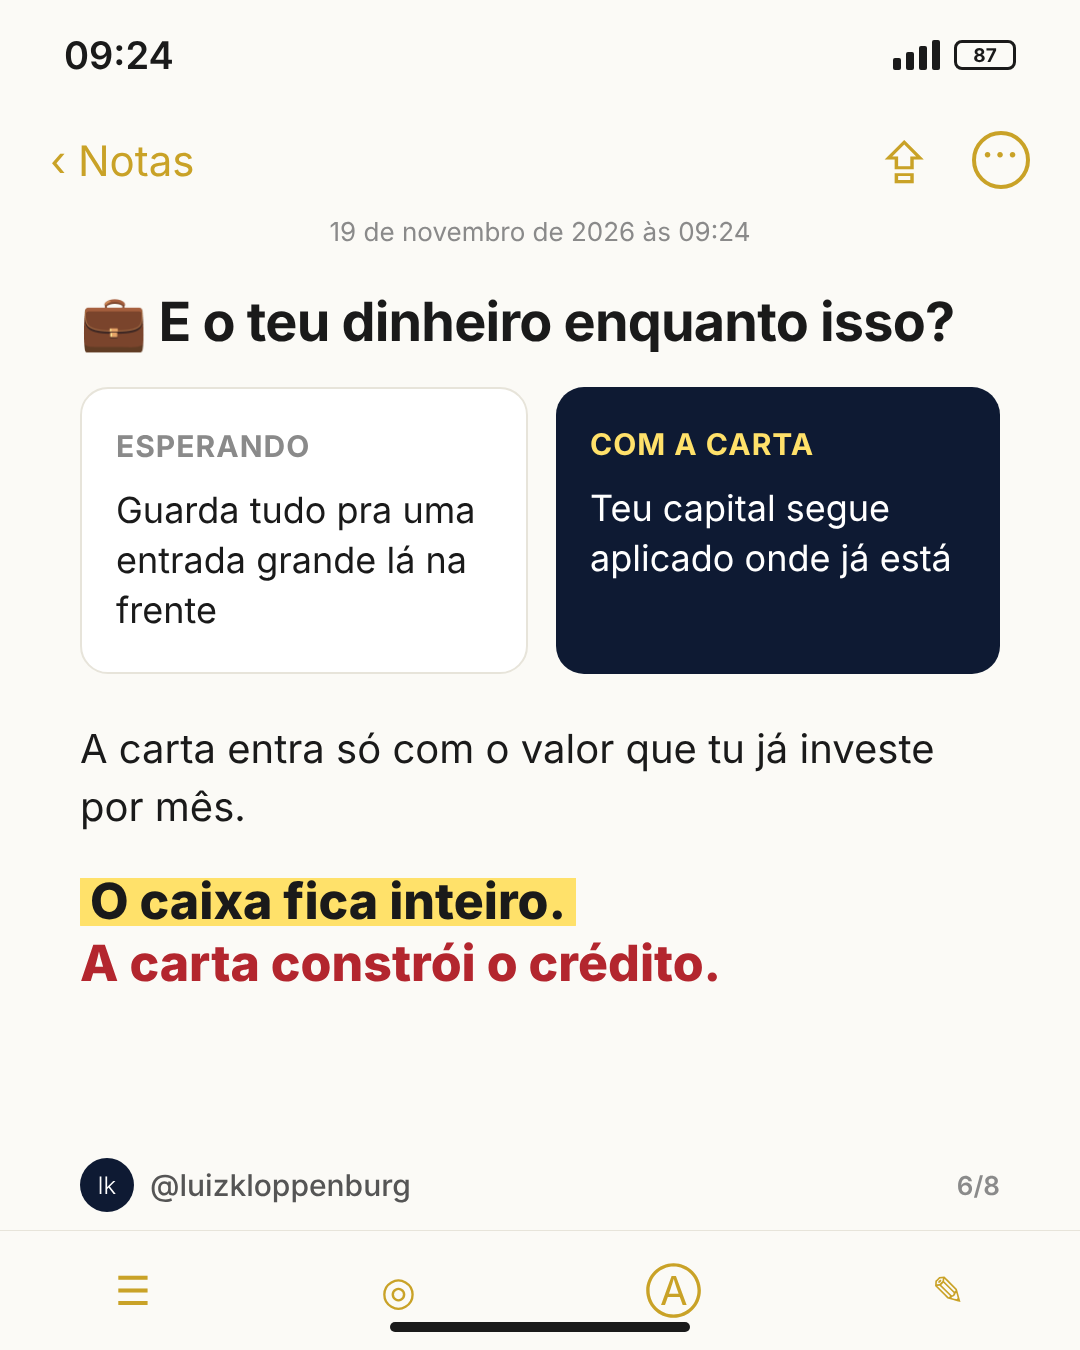
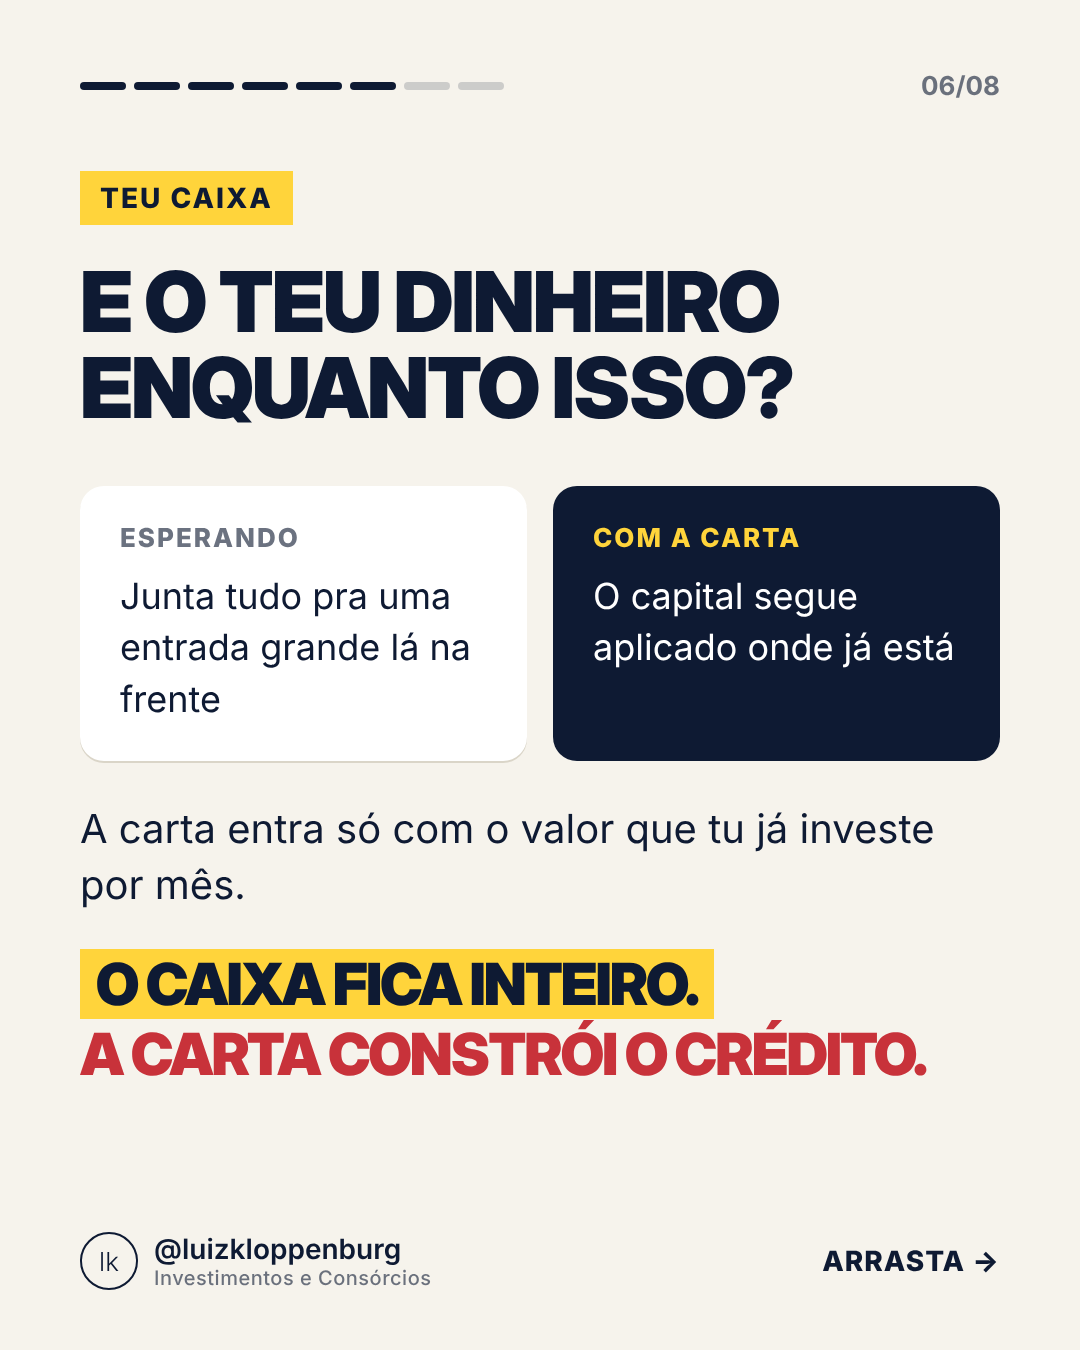
Refaz carrossel sem estilo de nota, no visual azul e amarelo do perfil
Claude-Session: https://claude.ai/code/session_012hLzEUsLBVKUL4S6WEAVH7

diff --git a/carrossel-luiz/carrossel.html b/carrossel-luiz/carrossel.html
@@ -1,178 +1,133 @@
 <!doctype html><html lang="pt-BR"><head><meta charset="utf-8">
-<link href="https://fonts.googleapis.com/css2?family=Caveat:wght@600;700&display=swap" rel="stylesheet">
 <style>
-:root{--navy:#0E1A33;--navy2:#1C2B4A;--yel:#FFE16A;--red:#B3262E;--gold:#C9A227;--paper:#FBFAF6;--ink:#1A1A1A;--mute:#8A8A8A;--line:#E7E4DA}
+:root{--navy:#0E1A33;--navy2:#1C2B4A;--yel:#FFD43B;--red:#C8323A;--cream:#F6F3EC;--ink:#0E1A33;--mute:#6B7280;--line:#DAD5C8}
 *{box-sizing:border-box;margin:0;padding:0}
-body{background:#ddd;font-family:Inter,sans-serif;color:var(--ink)}
-.s{width:1080px;height:1350px;background:var(--paper);position:relative;overflow:hidden;margin:20px auto;display:flex;flex-direction:column}
-.status{height:110px;display:flex;align-items:center;justify-content:space-between;padding:0 64px;font-weight:600;font-size:38px}
-.status .r{display:flex;gap:14px;align-items:center}
-.bars{display:flex;gap:5px;align-items:flex-end}.bars i{width:8px;background:var(--ink);border-radius:2px}
-.bat{width:62px;height:30px;border:3px solid var(--ink);border-radius:8px;font-size:19px;display:flex;align-items:center;justify-content:center;font-weight:700}
-.nav{height:100px;display:flex;align-items:center;justify-content:space-between;padding:0 50px;color:var(--gold);font-size:42px}
-.nav .ic{display:flex;gap:44px}.circ{width:58px;height:58px;border:4px solid var(--gold);border-radius:50%;display:flex;align-items:center;justify-content:center;font-size:30px;font-weight:800;letter-spacing:2px;line-height:0;padding-bottom:12px}
-.date{text-align:center;color:var(--mute);font-size:26px;margin-top:6px}
-.body{flex:1;padding:44px 80px 0}
-h1{font-size:62px;font-weight:700;line-height:1.15;letter-spacing:-1px}
-h2{font-size:54px;font-weight:700;line-height:1.15;letter-spacing:-.8px;margin-bottom:34px}
-p,li{font-size:40px;line-height:1.45}
-.hl{background:linear-gradient(transparent 12%,var(--yel) 12%,var(--yel) 92%,transparent 92%);padding:0 10px;border-radius:6px;box-decoration-break:clone;-webkit-box-decoration-break:clone}
+body{background:#999;font-family:Inter,sans-serif}
+.s{width:1080px;height:1350px;position:relative;overflow:hidden;margin:20px auto;display:flex;flex-direction:column;padding:70px 80px 0}
+.dark{background:var(--navy);color:#fff}
+.light{background:var(--cream);color:var(--ink)}
+.dark::before{content:"";position:absolute;right:-260px;top:-260px;width:720px;height:720px;border-radius:50%;border:2px solid #ffffff14}
+.dark::after{content:"";position:absolute;right:-160px;top:-160px;width:520px;height:520px;border-radius:50%;border:2px solid #ffffff10}
+.top{display:flex;justify-content:space-between;align-items:center;margin-bottom:70px;position:relative;z-index:1}
+.prog{display:flex;gap:8px}.prog i{width:46px;height:8px;border-radius:4px;background:currentColor;opacity:.18}.prog i.on{opacity:1;background:var(--yel)}
+.light .prog i.on{background:var(--navy)}
+.kick{display:inline-block;background:var(--yel);color:var(--navy);font-weight:800;font-size:28px;letter-spacing:2px;padding:10px 20px;text-transform:uppercase}
+.title{font-family:'Inter Display',Inter,sans-serif;font-weight:900;letter-spacing:-2px;line-height:1.02;text-transform:uppercase}
+.bar{background:var(--yel);color:var(--navy);padding:0 16px;box-decoration-break:clone;-webkit-box-decoration-break:clone}
+p{font-size:40px;line-height:1.42}
+.dark p{color:#E6E9F0}
+.mute{color:var(--mute)!important}
+.src{font-size:25px;line-height:1.4;opacity:.65;margin-top:24px}
 .red{color:var(--red)}
-.hand{font-family:Caveat,cursive;color:var(--red);font-weight:700}
-.foot{position:absolute;left:80px;right:80px;bottom:138px;display:flex;align-items:center;justify-content:space-between}
-.tag{display:flex;align-items:center;gap:16px;font-size:30px;color:#555;font-weight:500}
-.lk{width:54px;height:54px;border-radius:50%;background:var(--navy);color:#fff;font-size:24px;display:flex;align-items:center;justify-content:center;font-weight:300}
-.pg{font-size:26px;color:var(--mute);font-weight:600}
-.tool{position:absolute;bottom:0;left:0;right:0;height:120px;border-top:1px solid var(--line);display:flex;justify-content:space-around;align-items:center;color:var(--gold);font-size:40px}
-.home{position:absolute;bottom:18px;left:50%;transform:translateX(-50%);width:300px;height:10px;border-radius:5px;background:var(--ink)}
-.src{font-size:26px;color:var(--mute);line-height:1.4;margin-top:26px}
-.chk{list-style:none}.chk li{display:flex;gap:26px;align-items:flex-start;margin-bottom:22px}
-.box{flex:none;width:52px;height:52px;border-radius:50%;border:4px solid #C8C3B5;margin-top:4px;display:flex;align-items:center;justify-content:center;font-size:32px;font-weight:800;color:#fff}
-.box.on{background:var(--gold);border-color:var(--gold)}
-.box.x{background:var(--red);border-color:var(--red)}
-.card{background:#fff;border:2px solid var(--line);border-radius:28px;padding:36px 40px}
-.navycard{background:var(--navy);color:#fff;border-radius:28px;padding:40px 44px}
-.row{display:flex;justify-content:space-between;align-items:baseline;padding:22px 0;border-bottom:2px dashed var(--line);font-size:38px}
-.row:last-child{border:none}.row b{font-size:44px}
+.foot{position:absolute;left:80px;right:80px;bottom:60px;display:flex;justify-content:space-between;align-items:center;font-size:28px;font-weight:600}
+.lk{display:flex;align-items:center;gap:16px}
+.lk b{width:58px;height:58px;border-radius:50%;border:2px solid currentColor;display:flex;align-items:center;justify-content:center;font-weight:300;font-size:26px}
+.lk small{display:block;font-size:20px;font-weight:500;opacity:.6;letter-spacing:.5px}
+.swipe{font-weight:800;letter-spacing:1px}
+.card{background:#fff;border-radius:24px;padding:36px 40px;box-shadow:0 2px 0 var(--line)}
+.ncard{background:var(--navy2);border-radius:24px;padding:36px 40px}
+.big{font-family:'Inter Display',Inter;font-weight:900;letter-spacing:-2px}
 </style></head><body>
 
-<!-- template parts injected by JS -->
-<div id="deck">
-
-<section class="s" data-n="1">
- <div class="body" style="padding-top:70px">
-  <p style="font-size:44px;color:#555;margin-bottom:26px">Lembrete pra mim mesmo:</p>
-  <h1 style="font-size:84px;line-height:1.12">Tu tá adiando<br>a decisão até<br>o juro cair?</h1>
-  <div style="margin:46px 0 40px"><span class="hl" style="font-size:66px;font-weight:800;letter-spacing:-1px">A Selic só chega<br>em 10,5% em 2029.</span></div>
-  <p style="font-size:44px">São <b>3 anos</b> parado esperando.<br>Vale a pena? Fiz a conta.</p>
-  <div class="hand" style="font-size:62px;text-align:right;margin-top:30px;transform:rotate(-3deg)">arrasta pro lado →</div>
+<section class="s dark" data-n="1">
+ <div style="position:relative;z-index:1;margin-top:40px">
+  <span class="kick">Consórcio sem mistério</span>
+  <div class="title" style="font-size:118px;margin-top:50px">Tá esperando<br>o juro cair<br>pra decidir?</div>
+  <div class="title" style="font-size:74px;margin-top:50px;line-height:1.25"><span class="bar">Selic em 10,5%</span><br><span class="bar">só em 2029.</span></div>
+  <p style="margin-top:56px;font-size:44px">São 3 anos parado. Fiz a conta<br>do que essa espera custa.</p>
  </div>
 </section>
 
-<section class="s" data-n="2">
- <div class="body">
-  <h2>📌 O que o mercado projeta pra Selic</h2>
-  <div class="card" id="chart" style="padding:44px 40px 30px">
-   <div style="display:flex;align-items:flex-end;justify-content:space-around;height:330px;border-bottom:3px solid var(--ink);gap:40px">
-    <div style="flex:1;text-align:center"><div style="font-size:46px;font-weight:800;margin-bottom:12px">13,75%</div><div style="height:240px;background:var(--navy);border-radius:16px 16px 0 0"></div></div>
-    <div style="flex:1;text-align:center"><div style="font-size:46px;font-weight:800;margin-bottom:12px">12,75%</div><div style="height:222px;background:var(--navy2);border-radius:16px 16px 0 0"></div></div>
-    <div style="flex:1;text-align:center"><div style="font-size:46px;font-weight:800;margin-bottom:12px;color:var(--red)">10,50%</div><div style="height:183px;background:var(--yel);border:3px solid var(--gold);border-bottom:none;border-radius:16px 16px 0 0"></div></div>
-   </div>
-   <div style="display:flex;justify-content:space-around;gap:40px;margin-top:18px;font-size:34px;font-weight:600;text-align:center">
-    <div style="flex:1">fim 2026</div><div style="flex:1">fim 2027<br><span style="font-size:26px;color:var(--mute);font-weight:500">era 12,50%</span></div><div style="flex:1">fim 2029<br><span style="font-size:26px;color:var(--mute);font-weight:500">era 10,25%</span></div>
-   </div>
-  </div>
-  <p style="margin-top:34px">E repara: a projeção <span class="hl"><b>subiu</b></span> em vez de cair.</p>
-  <p class="src">Fonte: Boletim Focus, Banco Central, 16/11/2026.<br>Projeções do mercado, não garantia.</p>
+<section class="s light" data-n="2">
+ <span class="kick" style="align-self:flex-start">O que diz o Focus</span>
+ <div class="title" style="font-size:80px;margin:34px 0 50px">A Selic cai.<br><span class="red">Devagar.</span></div>
+ <div style="display:flex;align-items:flex-end;gap:36px;height:420px;border-bottom:4px solid var(--navy)">
+  <div style="flex:1;text-align:center"><div class="big" style="font-size:62px;margin-bottom:14px">13,75%</div><div style="height:300px;background:var(--navy)"></div></div>
+  <div style="flex:1;text-align:center"><div class="big" style="font-size:62px;margin-bottom:14px">12,75%</div><div style="height:278px;background:var(--navy2)"></div></div>
+  <div style="flex:1;text-align:center"><div class="big red" style="font-size:62px;margin-bottom:14px">10,50%</div><div style="height:229px;background:var(--yel)"></div></div>
+ </div>
+ <div style="display:flex;gap:36px;margin-top:20px;text-align:center;font-size:32px;font-weight:700">
+  <div style="flex:1">FIM 2026</div><div style="flex:1">FIM 2027<br><span class="mute" style="font-size:24px;font-weight:500">antes: 12,50%</span></div><div style="flex:1">FIM 2029<br><span class="mute" style="font-size:24px;font-weight:500">antes: 10,25%</span></div>
+ </div>
+ <p style="margin-top:44px;font-weight:600">E a projeção ainda <span class="bar">subiu</span> nesta semana.</p>
+ <p class="src">Boletim Focus, Banco Central, 16/11/2026. Projeções de mercado, não garantia.</p>
+</section>
+
+<section class="s dark" data-n="3">
+ <div style="position:relative;z-index:1">
+ <span class="kick">O custo invisível</span>
+ <div class="title" style="font-size:96px;margin:40px 0 40px">Esperar<br>também<br>custa.</div>
+ <p>Juro alto encarece o financiamento. Mas quem fica de fora perde outra coisa:</p>
+ <div style="display:flex;align-items:baseline;gap:28px;margin:46px 0 10px">
+  <span class="big" style="font-size:200px;color:var(--yel);line-height:.9">36</span>
+  <span style="font-size:44px;font-weight:700;line-height:1.2">assembleias<br>assistidas de fora</span>
+ </div>
+ <p style="margin-top:30px;font-size:46px;font-weight:800;color:#fff">O juro pode voltar a cair.<br><span style="color:var(--yel)">O tempo não volta.</span></p>
  </div>
 </section>
 
-<section class="s" data-n="3">
- <div class="body">
-  <h2>⏳ Esperar também tem custo</h2>
-  <p style="font-size:38px">Juro alto encarece o financiamento. Mas ficar de fora também cobra:</p>
-  <div class="navycard" style="margin-top:34px;padding:34px 44px">
-   <div style="display:flex;justify-content:space-between;font-size:32px;font-weight:600;opacity:.8"><span>hoje</span><span>fim de 2029</span></div>
-   <div style="position:relative;height:60px;margin:24px 0">
-    <div style="position:absolute;top:26px;left:0;right:0;height:8px;background:#ffffff33;border-radius:4px"></div>
-    <div style="position:absolute;top:26px;left:0;right:0;display:flex;justify-content:space-between">
-     <script>document.write(Array.from({length:19},()=>'<i style="width:8px;height:8px;border-radius:50%;background:#FFE16A;display:block"></i>').join(''))</script>
-    </div>
-    <div style="position:absolute;left:0;top:10px;width:40px;height:40px;border-radius:50%;background:var(--yel)"></div>
-    <div style="position:absolute;right:0;top:10px;width:40px;height:40px;border-radius:50%;background:var(--yel)"></div>
-   </div>
-   <p style="font-size:44px;font-weight:700;line-height:1.3">~36 assembleias<br><span style="color:var(--yel)">que tu assiste de fora.</span></p>
-  </div>
-  <p style="margin-top:34px;font-size:38px">Cada mês fora do grupo é uma chance a menos de ser contemplado.</p>
-  <p class="red" style="font-weight:800;font-size:44px;margin-top:18px">O juro pode voltar a cair.<br>O tempo, não volta.</p>
+<section class="s light" data-n="4">
+ <span class="kick" style="align-self:flex-start">Como funciona</span>
+ <div class="title" style="font-size:84px;margin:34px 0 56px">Consórcio não<br>depende da<br><span class="bar">Selic</span></div>
+ <div style="display:flex;flex-direction:column;gap:22px">
+  <div class="card" style="display:flex;gap:30px;align-items:center"><span class="big red" style="font-size:64px;width:60px">✕</span><p><b>Sem juros</b> de financiamento</p></div>
+  <div class="card" style="display:flex;gap:30px;align-items:center"><span class="big" style="font-size:64px;width:60px">✓</span><p>Custo: <b>taxa de administração</b> e <b>fundo de reserva</b></p></div>
+  <div class="card" style="display:flex;gap:30px;align-items:center"><span class="big" style="font-size:64px;width:60px">✓</span><p>Tudo <b>diluído no prazo</b> do plano</p></div>
+ </div>
+ <p class="src" style="opacity:1;color:var(--mute);margin-top:34px">O reajuste anual atualiza crédito e parcela pelo índice da proposta. Está no regulamento da HS.</p>
+</section>
+
+<section class="s dark" data-n="5">
+ <div style="position:relative;z-index:1">
+ <span class="kick">A conta aberta</span>
+ <div class="title" style="font-size:90px;margin:40px 0 50px">Carta HS de<br><span style="color:var(--yel)">R$ 500 mil</span></div>
+ <div class="ncard">
+  <div style="display:flex;justify-content:space-between;align-items:baseline;padding-bottom:26px;border-bottom:2px solid #ffffff22"><p>Meia parcela<br><span style="font-size:28px;opacity:.7">até contemplar</span></p><span class="big" style="font-size:54px">R$ 1.397,50</span></div>
+  <div style="display:flex;justify-content:space-between;align-items:baseline;padding-top:26px"><p>36 meses<br><span style="font-size:28px;opacity:.7">até o fim de 2029</span></p><span class="big" style="font-size:54px">R$ 50.310</span></div>
+ </div>
+ <p style="margin-top:50px;font-size:46px;font-weight:700;color:#fff;line-height:1.3">~R$ 50 mil investidos aos poucos.<br><span style="color:var(--yel)">36 assembleias concorrendo.</span></p>
+ <p class="src">Tabela oficial HS, plano de 220 meses. A contemplação depende de sorteio ou lance e dos recursos do grupo.</p>
  </div>
 </section>
 
-<section class="s" data-n="4">
- <div class="body">
-  <h2>✅ Consórcio não depende da Selic</h2>
-  <ul class="chk">
-   <li><span class="box x">✕</span><span><b>Sem juros</b> de financiamento</span></li>
-   <li><span class="box on">✓</span><span>O custo é <b>taxa de administração</b> + <b>fundo de reserva</b></span></li>
-   <li><span class="box on">✓</span><span>Tudo <b>diluído no prazo</b> do plano</span></li>
-   <li><span class="box">&nbsp;</span><span style="color:var(--mute)">Ficar torcendo pelo Copom</span></li>
-  </ul>
-  <div class="card" style="margin-top:30px;background:#FFF8D9;border-color:#F1E2A0">
-   <p style="font-size:32px;line-height:1.45"><b>Importante:</b> o reajuste anual atualiza o crédito e a parcela pelo índice da proposta. Está no regulamento da HS.</p>
-  </div>
+<section class="s light" data-n="6">
+ <span class="kick" style="align-self:flex-start">Teu caixa</span>
+ <div class="title" style="font-size:84px;margin:34px 0 56px">E o teu dinheiro<br>enquanto isso?</div>
+ <div style="display:flex;gap:26px">
+  <div class="card" style="flex:1"><div style="font-size:26px;font-weight:800;letter-spacing:2px;color:var(--mute)">ESPERANDO</div><p style="margin-top:18px;font-size:36px">Junta tudo pra uma entrada grande lá na frente</p></div>
+  <div class="ncard" style="flex:1;background:var(--navy);color:#fff"><div style="font-size:26px;font-weight:800;letter-spacing:2px;color:var(--yel)">COM A CARTA</div><p style="margin-top:18px;font-size:36px;color:#fff">O capital segue aplicado onde já está</p></div>
+ </div>
+ <p style="margin-top:40px">A carta entra só com o valor que tu já investe por mês.</p>
+ <div class="title" style="font-size:58px;margin-top:36px;line-height:1.2"><span class="bar">O caixa fica inteiro.</span><br><span class="red">A carta constrói o crédito.</span></div>
+</section>
+
+<section class="s dark" data-n="7">
+ <div style="position:relative;z-index:1">
+ <span class="kick">Método API</span>
+ <div class="title" style="font-size:80px;margin:30px 0 16px">Contemplou?<br><span style="color:var(--yel)">Tu escolhe.</span></div>
+ <p style="margin-bottom:30px">Três saídas. Nenhuma espera o juro.</p>
+ <div style="display:flex;flex-direction:column;gap:22px">
+  <div class="ncard" style="display:flex;gap:34px;align-items:center;padding:22px 36px"><span class="big" style="font-size:72px;color:var(--yel);width:60px">1</span><p><b style="color:#fff">Vender a carta</b><br>com possível ágio</p></div>
+  <div class="ncard" style="display:flex;gap:34px;align-items:center;padding:22px 36px"><span class="big" style="font-size:72px;color:var(--yel);width:60px">2</span><p><b style="color:#fff">Comprar um imóvel</b><br>que tende a gerar aluguel</p></div>
+  <div class="ncard" style="display:flex;gap:34px;align-items:center;padding:22px 36px"><span class="big" style="font-size:72px;color:var(--yel);width:60px">3</span><p><b style="color:#fff">Deixar o crédito</b><br>aplicado</p></div>
+ </div>
+ <p style="margin-top:30px;font-weight:700;color:#fff;font-size:36px">Quem decide é o momento do grupo,<br>não a manchete.</p>
  </div>
 </section>
 
-<section class="s" data-n="5">
- <div class="body">
-  <h2>🧮 Abrindo a conta</h2>
-  <div class="card" style="padding:20px 44px">
-   <div class="row"><span>Carta HS</span><b>R$ 500 mil</b></div>
-   <div class="row"><span>Meia parcela<br><span style="font-size:28px;color:var(--mute)">até contemplar</span></span><b>R$ 1.397,50</b></div>
-   <div class="row"><span>36 meses<br><span style="font-size:28px;color:var(--mute)">até o fim de 2029</span></span><b>R$ 50.310</b></div>
-  </div>
-  <p style="margin-top:44px;font-size:44px;font-weight:700">Com ~R$ 50 mil investidos aos poucos, tu passa <span class="hl">36 assembleias concorrendo</span> a uma carta de R$ 500 mil.</p>
-  <p class="src">Tabela oficial HS, plano de 220 meses. A contemplação depende de sorteio ou lance e dos recursos do grupo.</p>
+<section class="s light" data-n="8">
+ <div class="title" style="font-size:100px;margin-top:30px">Vai esperar<br>o juro ou<br><span class="bar">começar a</span><br><span class="bar">concorrer?</span></div>
+ <p style="margin:50px 0 20px;font-weight:600">Na conversa eu te mostro:</p>
+ <p style="line-height:1.7">→ quanto tu investe por mês<br>→ quanto crédito entra em jogo<br>→ qual saída faz sentido pra ti</p>
+ <div style="background:var(--navy);color:#fff;margin-top:44px;padding:34px 44px;display:flex;align-items:center;justify-content:space-between">
+  <span style="font-size:40px;font-weight:600">Comenta</span>
+  <span class="big" style="font-size:110px;color:var(--yel);letter-spacing:6px;line-height:1">JURO</span>
  </div>
 </section>
-
-<section class="s" data-n="6">
- <div class="body">
-  <h2>💼 E o teu dinheiro enquanto isso?</h2>
-  <div style="display:flex;gap:28px">
-   <div class="card" style="flex:1;padding:36px 34px">
-    <p style="font-size:30px;font-weight:700;color:var(--mute);letter-spacing:1px">ESPERANDO</p>
-    <p style="font-size:36px;margin-top:16px;line-height:1.4">Guarda tudo pra uma entrada grande lá na frente</p>
-   </div>
-   <div class="navycard" style="flex:1;padding:36px 34px">
-    <p style="font-size:30px;font-weight:700;color:var(--yel);letter-spacing:1px">COM A CARTA</p>
-    <p style="font-size:36px;margin-top:16px;line-height:1.4">Teu capital segue aplicado onde já está</p>
-   </div>
-  </div>
-  <p style="margin-top:46px">A carta entra só com o valor que tu já investe por mês.</p>
-  <p style="margin-top:34px;font-size:50px;font-weight:800;line-height:1.25"><span class="hl">O caixa fica inteiro.</span><br><span class="red">A carta constrói o crédito.</span></p>
- </div>
-</section>
-
-<section class="s" data-n="7">
- <div class="body">
-  <h2>🗝 Método API: contemplou, tu escolhe</h2>
-  <p style="margin-bottom:26px">Três saídas. Nenhuma delas espera o juro:</p>
-  <div style="display:flex;flex-direction:column;gap:24px">
-   <div class="card" style="display:flex;gap:30px;align-items:center;padding:22px 36px"><span style="font-size:64px;font-weight:800;color:var(--gold);width:60px">1</span><p><b>Vender a carta</b> com possível ágio</p></div>
-   <div class="card" style="display:flex;gap:30px;align-items:center;padding:22px 36px"><span style="font-size:64px;font-weight:800;color:var(--gold);width:60px">2</span><p><b>Comprar um imóvel</b> que tende a gerar aluguel</p></div>
-   <div class="card" style="display:flex;gap:30px;align-items:center;padding:22px 36px"><span style="font-size:64px;font-weight:800;color:var(--gold);width:60px">3</span><p><b>Deixar o crédito</b> aplicado</p></div>
-  </div>
-  <p class="hand" style="font-size:50px;margin-top:28px;line-height:1.15;transform:rotate(-2deg)">quem decide é o momento do grupo,<br>não a manchete do jornal.</p>
- </div>
-</section>
-
-<section class="s" data-n="8">
- <div class="body" style="padding-top:40px">
-  <h1 style="font-size:70px">Vai esperar o juro<br><span class="hl">ou começar a concorrer?</span></h1>
-  <p style="margin:36px 0 24px;font-size:38px;color:#555">Na conversa eu te mostro:</p>
-  <ul class="chk">
-   <li><span class="box on">✓</span><span>Quanto tu investe por mês</span></li>
-   <li><span class="box on">✓</span><span>Quanto crédito entra em jogo</span></li>
-   <li><span class="box on">✓</span><span>Qual saída faz mais sentido pra ti</span></li>
-  </ul>
-  <div class="navycard" style="margin-top:26px;text-align:center;padding:28px 44px">
-   <p style="font-size:44px;font-weight:600">Comenta</p>
-   <p style="font-size:92px;font-weight:900;color:var(--yel);letter-spacing:4px;line-height:1.1">JURO</p>
-   <p style="font-size:34px;opacity:.85">que eu te mando a conta no direct</p>
-  </div>
- </div>
-</section>
-</div>
 
 <script>
-const chrome = (n)=>`
- <div class="status"><span>09:24</span><span class="r"><span class="bars"><i style="height:12px"></i><i style="height:18px"></i><i style="height:24px"></i><i style="height:30px"></i></span><span class="bat">87</span></span></div>
- <div class="nav"><span>‹ Notas</span><span class="ic"><span style="font-size:46px">⇪</span><span class="circ">···</span></span></div>
- <div class="date">19 de novembro de 2026 às 09:24</div>`;
-const foot = (n)=>`
- <div class="foot"><span class="tag"><span class="lk">lk</span>@luizkloppenburg</span><span class="pg">${n}/8</span></div>
- <div class="tool"><span>☰</span><span>◎</span><span>Ⓐ</span><span>✎</span></div><div class="home"></div>`;
-document.querySelectorAll('.s').forEach(s=>{const n=s.dataset.n;s.insertAdjacentHTML('afterbegin',chrome(n));s.insertAdjacentHTML('beforeend',foot(n));});
+document.querySelectorAll('.s').forEach(s=>{const n=+s.dataset.n;
+ s.insertAdjacentHTML('afterbegin',`<div class="top"><div class="prog">${Array.from({length:8},(_,i)=>`<i class="${i<n?'on':''}"></i>`).join('')}</div><span style="font-size:26px;font-weight:700;opacity:.6">${String(n).padStart(2,'0')}/08</span></div>`);
+ s.insertAdjacentHTML('beforeend',`<div class="foot"><span class="lk"><b>lk</b><span>@luizkloppenburg<small>Investimentos e Consórcios</small></span></span><span class="swipe">${n<8?'ARRASTA →':'HS ROLANTE'}</span></div>`);});
 </script>
 </body></html>
